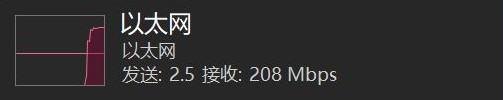
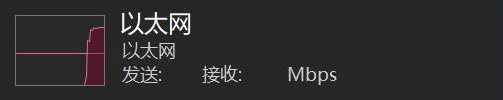
docs(脱敏): 演示截图遮挡速率读数，并说明截图与仓库内控制台的关系
聚合出口那张图的速率读数按 docs/00 §2.1 遮挡后重新导出；图注里的量级表述同步
收敛为「两百 Mbps 档位」并指向该规范。

功能演示区的引言改为说明截图来自作者本机、与仓库内 tools/bucket_console 同构
（界面结构、按钮语义、生命周期模型一致），个别按钮文案可能随版本略有差异——
比原来「数值均为演示用示例值」的说法更贴合实际。

Changed region(s): [[0.4771, 0.66, 0.5666, 0.81], [0.328, 0.66, 0.3877, 0.81]]

diff --git a/README.md b/README.md
@@ -62,8 +62,10 @@ python bucket_console.py                     # 再开界面
 
 ## 功能演示
 
-> 下列截图来自本项目控制台的实际运行界面。所有可识别标识（品牌名、本机绝对路径、账号、MAC、SSH 地址）均已打码；
-> 图中的桶名、接口名、label 与数值均为**演示用示例值**，不对应任何真实环境。演示截图的脱敏要求见 [docs/00_脱敏与贡献规范.md](docs/00_脱敏与贡献规范.md) §4.3。
+> 下列截图来自作者本机的控制台，与仓库内 `tools/bucket_console/` **同构**（界面结构、按钮语义、生命周期模型一致），
+> 个别按钮文案可能随版本略有差异。所有可识别标识（品牌名、本机绝对路径、账号、MAC、SSH 地址）均已打码，
+> **速率读数已按 §2.1 遮挡**；图中的桶名、接口名与 label 为演示用示例值，不指向任何真实环境。
+> 演示截图的脱敏要求见 [docs/00_脱敏与贡献规范.md](docs/00_脱敏与贡献规范.md) §4.3。
 
 ### 1. 简单控制台：一眼看桶状态
 
@@ -87,7 +89,8 @@ python bucket_console.py                     # 再开界面
 ![聚合出口速率](assets/screenshots/aggregated-throughput.jpg)
 
 多会话腿同时在线时，出口链路（图中为以太网）的接收速率进入**两百 Mbps 档位**，高于单会话上限——
-这就是本方案要拿到的东西。速率的具体判定与验证方法见 [experiments/verify_aggregation.md](experiments/verify_aggregation.md)。
+这就是本方案要拿到的东西（图中该读数已遮挡，量级表述遵守 [docs/00_脱敏与贡献规范.md](docs/00_脱敏与贡献规范.md) §2.1）。
+速率的具体判定与验证方法见 [experiments/verify_aggregation.md](experiments/verify_aggregation.md)。
 
 ## 环境前提（动手前先自查）
 
